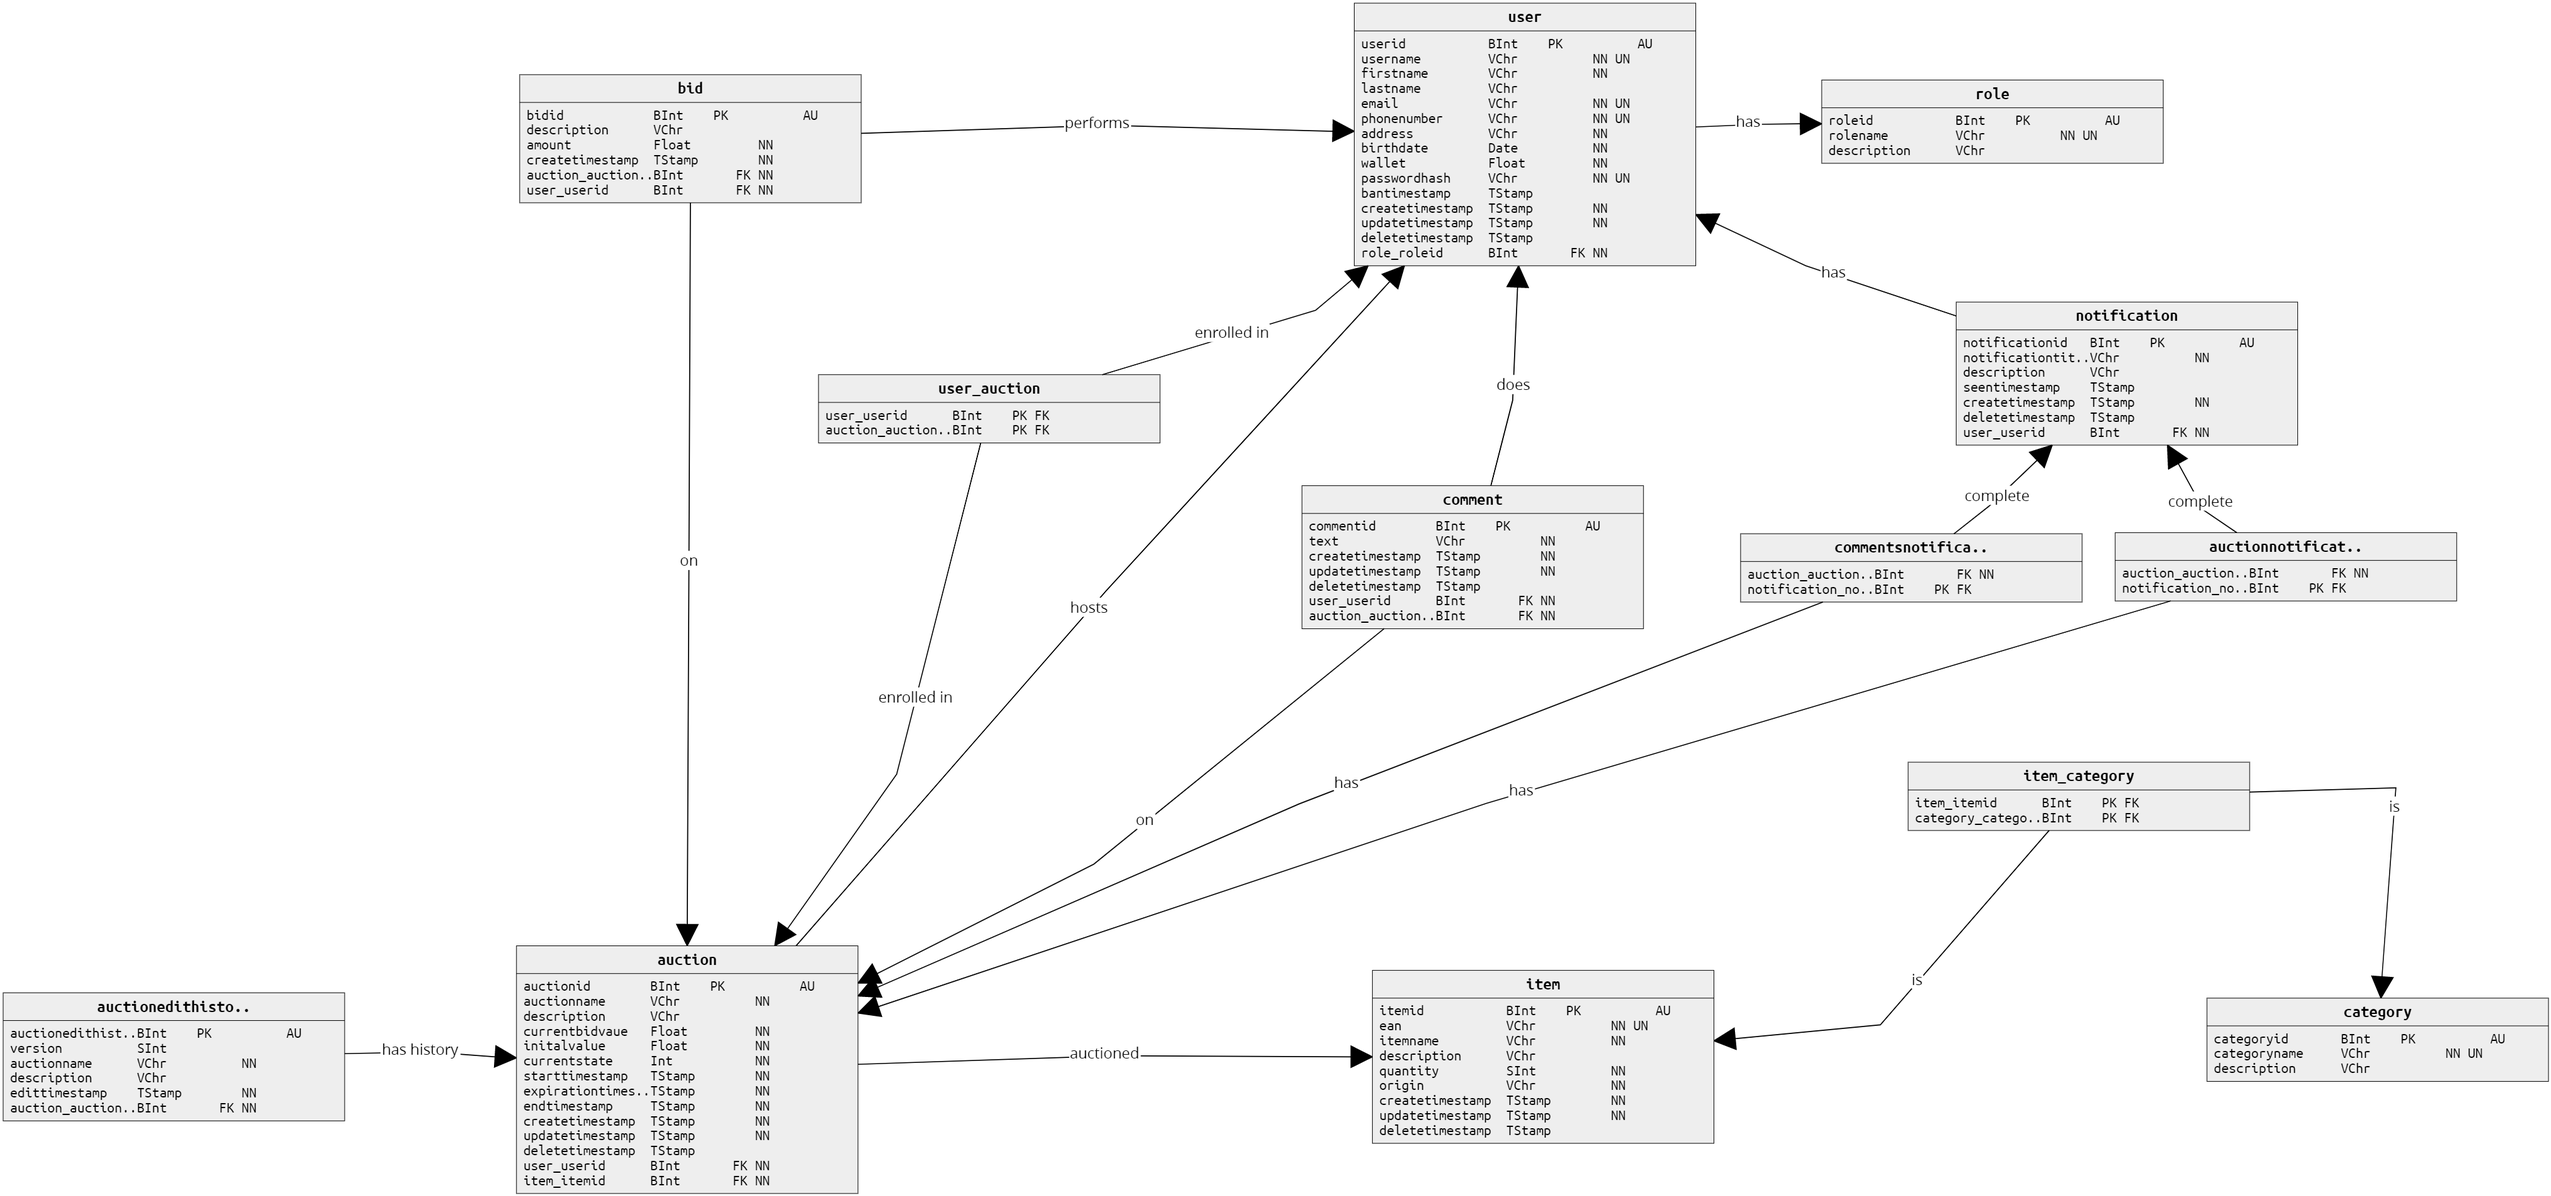
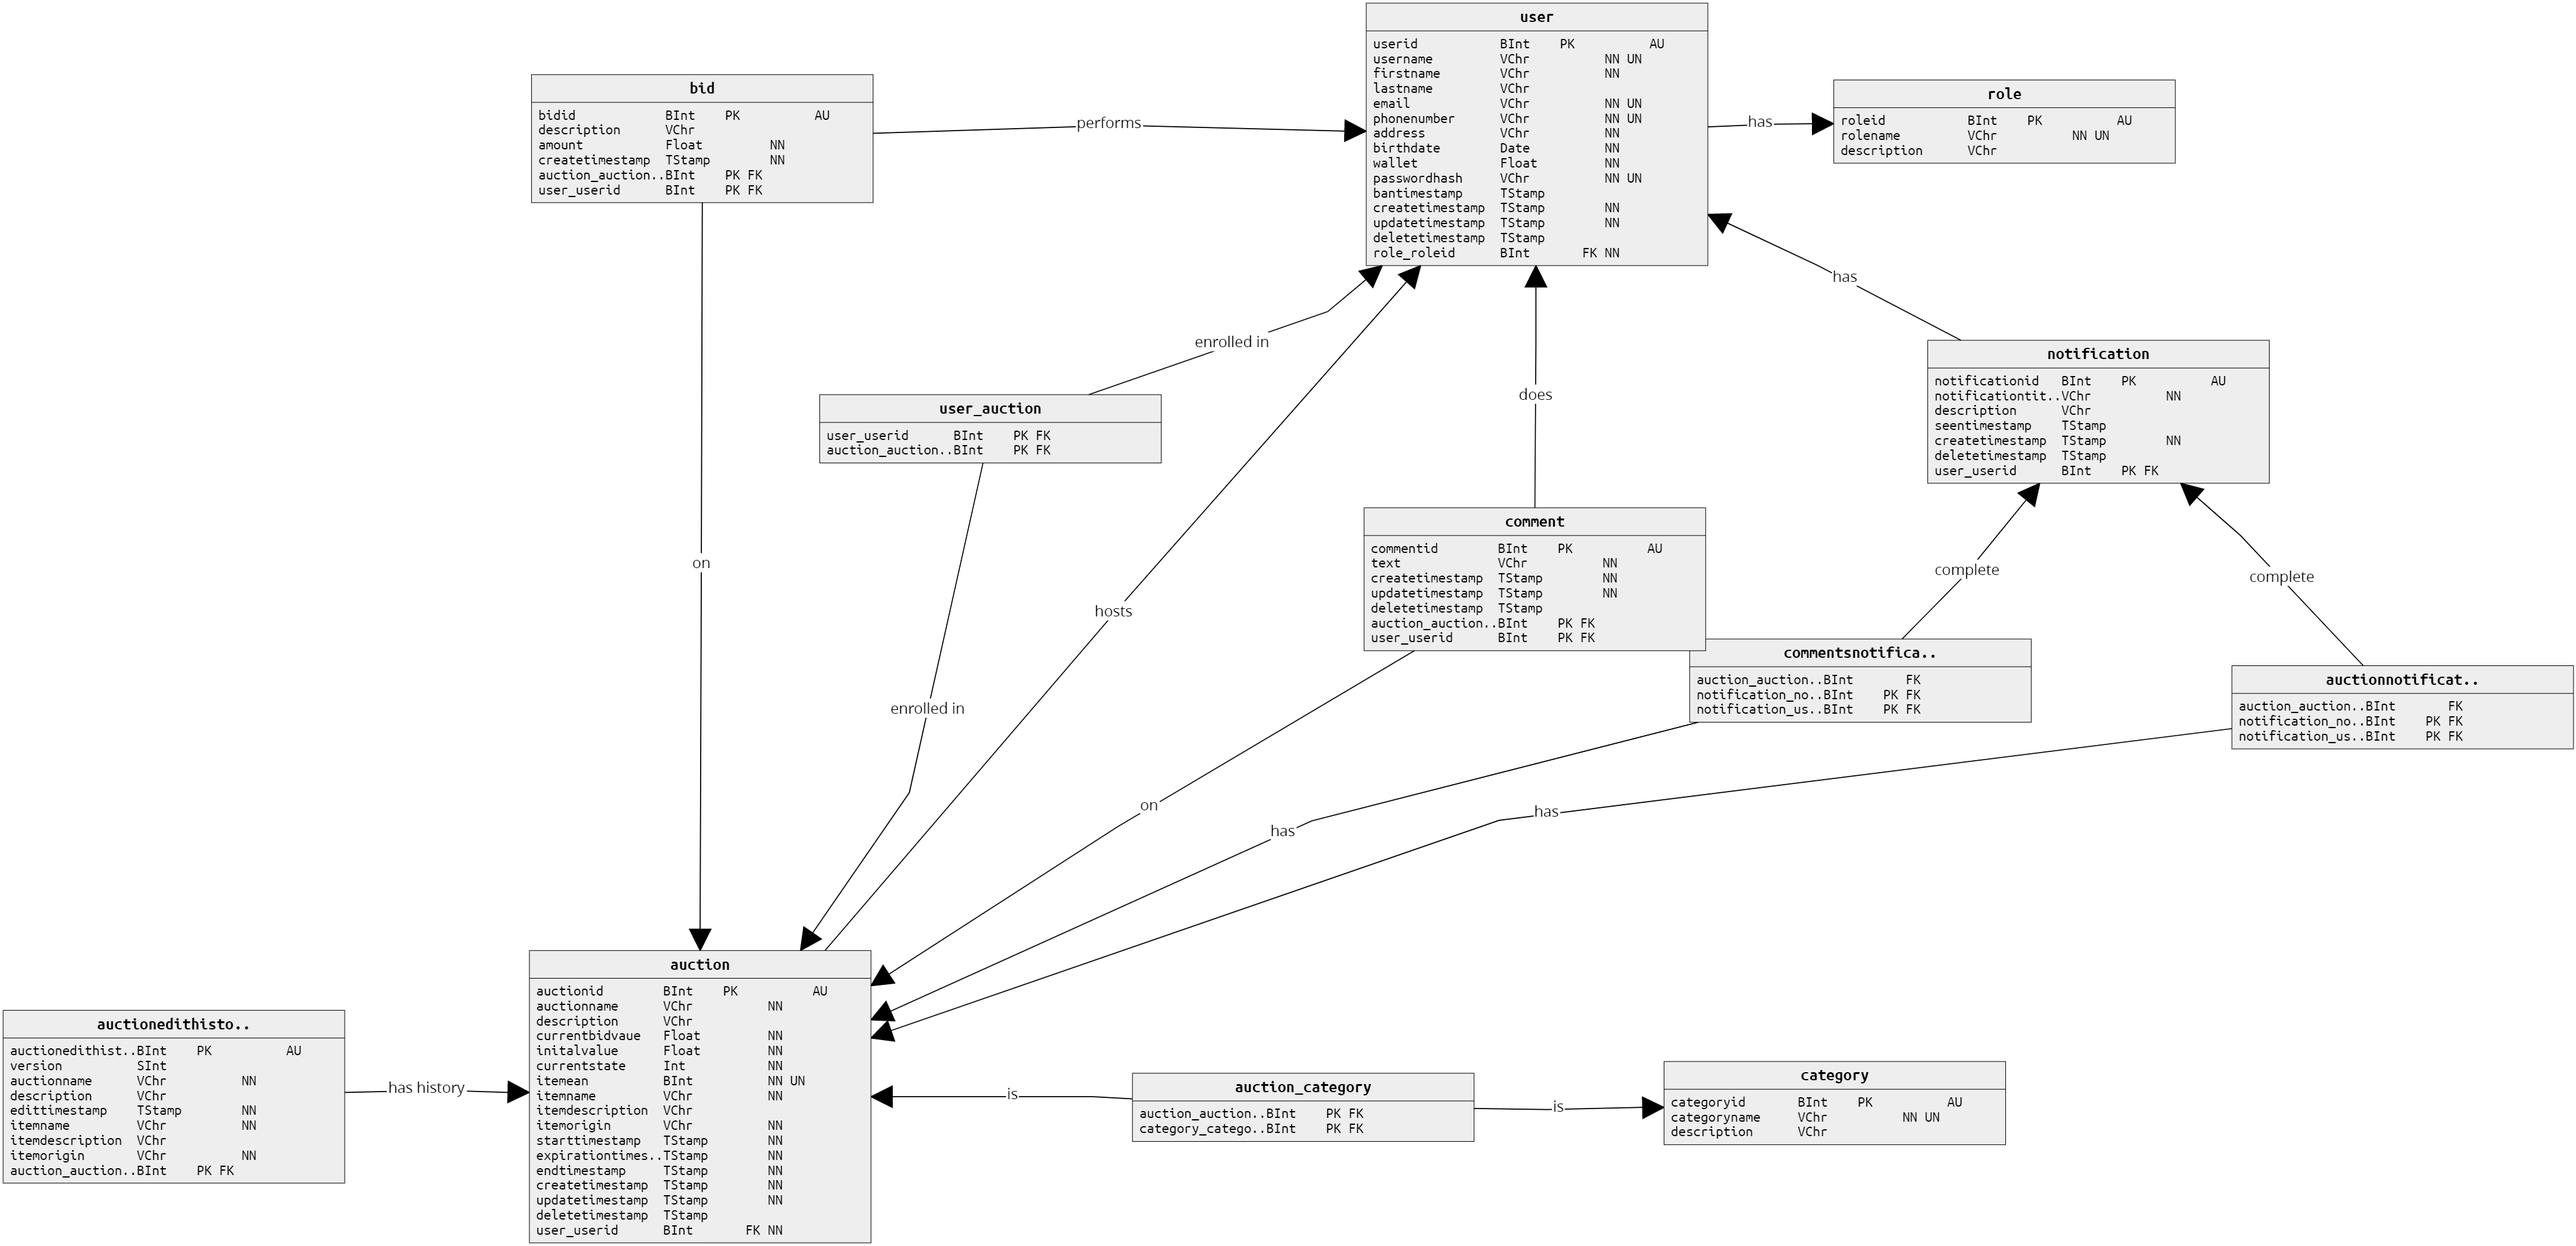
DATALAYER: improve database model and add indices.

diff --git a/source_code/src/main/java/startup/SourceCodeApplication.java b/source_code/src/main/java/startup/SourceCodeApplication.java
@@ -1,4 +1,4 @@
-package auctionaction.source_code;
+package startup;
 
 import org.springframework.boot.SpringApplication;
 import org.springframework.boot.autoconfigure.SpringBootApplication;

diff --git a/source_code/src/test/java/startup/SourceCodeApplicationTests.java b/source_code/src/test/java/startup/SourceCodeApplicationTests.java
@@ -1,4 +1,4 @@
-package auctionaction.source_code;
+package startup;
 
 import org.junit.jupiter.api.Test;
 import org.springframework.boot.test.context.SpringBootTest;

diff --git a/source_code/src/main/java/controllers/AuctionController.java b/source_code/src/main/java/controllers/AuctionController.java
@@ -1,0 +1,4 @@
+package controllers;
+
+public class AuctionController {
+}

diff --git a/source_code/src/main/java/controllers/RoleController.java b/source_code/src/main/java/controllers/RoleController.java
@@ -1,0 +1,4 @@
+package controllers;
+
+public class RoleController {
+}

diff --git a/source_code/src/main/java/controllers/UserController.java b/source_code/src/main/java/controllers/UserController.java
@@ -1,0 +1,4 @@
+package controllers;
+
+public class UserController {
+}

diff --git a/source_code/src/main/java/controllers/BidController.java b/source_code/src/main/java/controllers/BidController.java
@@ -1,0 +1,4 @@
+package controllers;
+
+public class BidController {
+}
